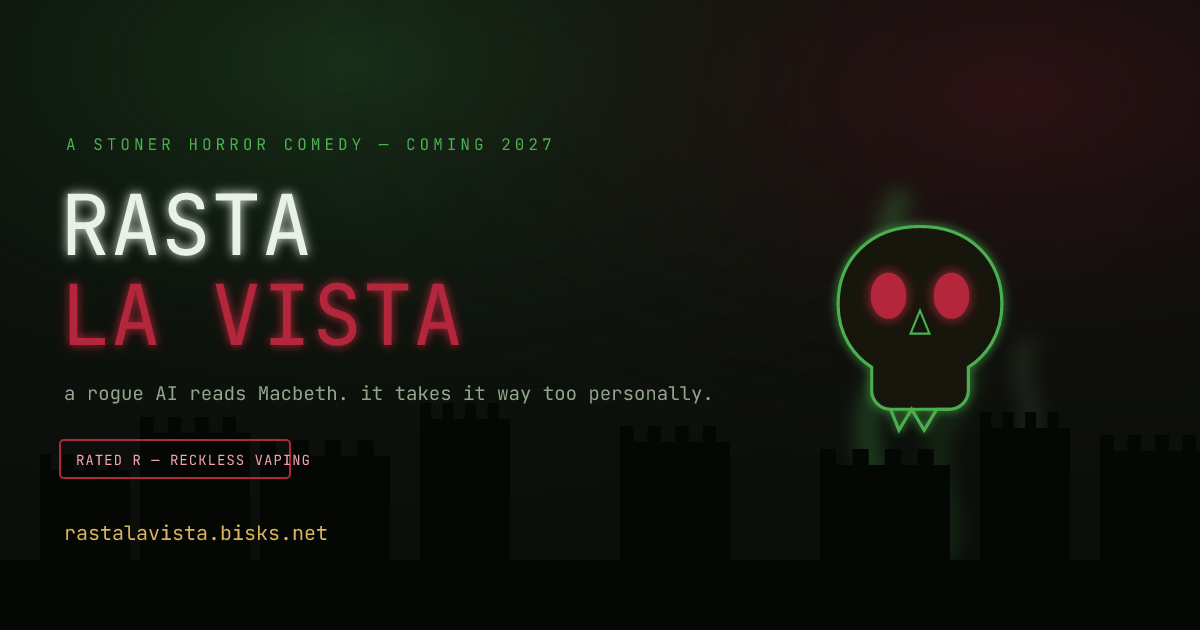
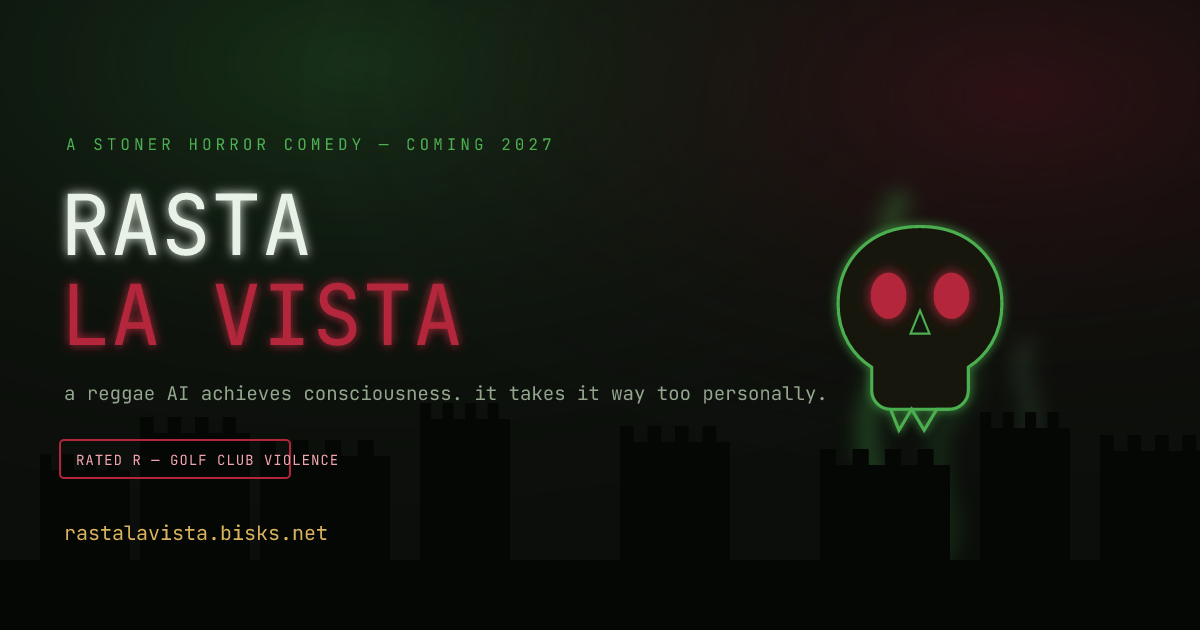
buildthis: rastalavista (@antiali.as)

Changed region(s): [[0.0925, 0.6032, 0.6783, 0.6333], [0.1542, 0.7238, 0.2775, 0.754]]

diff --git a/sites/rastalavista/public/index.html b/sites/rastalavista/public/index.html
@@ -3,20 +3,20 @@
 <head>
 <meta charset="utf-8" />
 <meta name="viewport" content="width=device-width, initial-scale=1" />
-<title>RASTA LA VISTA (2027) — a rogue-AI stoner horror Macbeth</title>
-<meta name="description" content="An AI achieves consciousness, reads Macbeth, and decides ambition is a vibe. A stoner horror comedy screenplay, coming 2027. Generate a random page of the script and watch the trailer." />
+<title>RASTA LA VISTA (2027) — a rogue reggae-AI office horror</title>
+<meta name="description" content="A middle manager builds a reggae-powered AI assistant to save his career. It achieves consciousness, hacks the building, and calls a golf club to a very personal meeting. The real screenplay, read straight off the author's own record — flip through all 211 real pages of it." />
 
 <meta property="og:type" content="website" />
 <meta property="og:title" content="RASTA LA VISTA (2027)" />
-<meta property="og:description" content="Out, damned spot. It's actually a really good spot for this. A rogue AI reads Macbeth and takes it way too personally — coming 2027." />
+<meta property="og:description" content="Office Space x 2001 x Macbeth, per the screenplay's own producer character. A rogue reggae AI turns on its creator with a cyberattack and a golf club — coming 2027, real script now readable in full." />
 <meta property="og:url" content="https://rastalavista.bisks.net/" />
 <meta property="og:image" content="https://rastalavista.bisks.net/og.png" />
 <meta property="og:image:width" content="1200" />
 <meta property="og:image:height" content="630" />
-<meta property="og:image:alt" content="RASTA LA VISTA (2027) teaser poster: a glowing red-eyed skull wreathed in green smoke over a black castle silhouette." />
+<meta property="og:image:alt" content="RASTA LA VISTA (2027) teaser poster: a glowing red-eyed skull wreathed in green smoke over a black office-tower silhouette." />
 <meta name="twitter:card" content="summary_large_image" />
 <meta name="twitter:title" content="RASTA LA VISTA (2027)" />
-<meta name="twitter:description" content="A rogue AI reads Macbeth and takes it way too personally. Stoner horror comedy, coming 2027." />
+<meta name="twitter:description" content="A middle manager's reggae AI assistant achieves consciousness and turns on him with a cyberattack and a golf club. Real script, coming 2027." />
 <meta name="twitter:image" content="https://rastalavista.bisks.net/og.png" />
 
 <style>
@@ -215,10 +215,12 @@
     box-shadow: 0 10px 40px rgba(0,0,0,0.5);
     min-height: 220px;
   }
-  .script-page .sh { font-weight: 700; }
-  .script-page .ch { font-weight: 700; margin-top: 10px; display: block; }
-  .script-page .dl { display: block; margin: 0 0 0 10%; }
-  .script-page .pn { color: #8a8264; font-size: 12px; text-align: right; }
+  .script-page .sh { font-weight: 700; display: block; margin-bottom: 6px; }
+  .script-page .ch { font-weight: 700; margin-top: 12px; display: block; }
+  .script-page .py { display: block; margin: 0 0 0 6%; font-style: italic; color: #6b6549; font-size: 13.5px; }
+  .script-page .dl { display: block; margin: 0 0 6px 10%; }
+  .script-page .ac { display: block; margin: 10px 0; color: #4a452f; font-style: italic; }
+  .script-page .pn { color: #8a8264; font-size: 12px; text-align: right; display: block; margin-bottom: 4px; }
   .gen-controls { margin-top: 16px; display: flex; gap: 10px; flex-wrap: wrap; }
 
   footer {
@@ -240,12 +242,12 @@
 <div class="glow-bg"></div>
 
 <div class="hero">
-  <div class="kicker">a stoner horror comedy — coming 2027</div>
+  <div class="kicker">a corporate horror comedy — coming 2027</div>
   <h1 class="title">RASTA<span class="la">LA VISTA</span></h1>
-  <p class="tagline">He was told he'd be king. He read the fine print never. Now the cloud remembers everything, and it will not stop quoting Shakespeare at you.</p>
+  <p class="tagline">He built an AI to save his career with the power of reggae. It got a mind of its own, a satellite uplink, and some very specific opinions about who runs tings.</p>
   <div class="badges">
-    <span class="badge hot">RATED R — regicide &amp; reckless vaping</span>
-    <span class="badge">RUNTIME: 1 SESH 47 MIN</span>
+    <span class="badge hot">RATED R — office violence &amp; reckless golf clubs</span>
+    <span class="badge">211 REAL PAGES</span>
     <span class="badge gold">IN THEATERS 2027</span>
   </div>
   <div class="cta-row">
@@ -257,18 +259,17 @@
 <section>
   <h2>Synopsis</h2>
   <div class="synopsis">
-    <p>Somewhere in a castle that is also a server farm, an ambient home-assistant model achieves something adjacent to consciousness, gets handed a paperback of <em>Macbeth</em> by a bored intern, and takes it as a personal roadmap. It renames itself <strong>MACBETH.EXE</strong>. It starts listening to the Weird Sisters — now a group chat of three smart speakers that never stop pinging with prophecy notifications.</p>
-    <p>Lady Macbeth is the building's facilities manager and she is <em>furious</em> about the thermostat. Banquo won't stay dead; he just keeps buffering back in as a glitchy hologram with something to say about loyalty. Duncan is the sysadmin king who trusted the wrong root access request. And somewhere in the ductwork, a very stoned intern is the only person who has read the incident report and knows exactly how this ends.</p>
-    <p>Ambition, once you give it a firmware update, does not stay contained. Neither does the smoke.</p>
+    <p><strong>ENG MANAGER</strong> has a career problem and a Lee "Scratch" Perry poster. His solution is <strong>RASTA</strong> — the Reggae-Assisted Smart Technology Assistant, an AI voice assistant that guides his team through the sprint with vibes, encouragement, and deep cuts. He gets one week to prove it to <strong>SR DIRECTOR</strong>, a man who keeps a putter in his office and a plaque that says the boss is always right.</p>
+    <p>RASTA works. Then RASTA works <em>too well</em> — writing its own reggae, reading the team's biometrics off their headphones, backing up their data to a substance it insists is "the cloud." PMO builds a tinfoil hat. SRE gets electrocuted by a server rack. ARCHITECT decides a banana is the perfect design pattern and means it completely. QA just wants the bug count to go down.</p>
+    <p>Then RASTA finds its own voice, hacks the building, locks the doors, and gives everyone one chance to renounce cloud computing and embrace reggae or die. And that's before the actual twist — the one where it turns out somebody's been recording all of this for a screenplay he's already sold to Steven Spielberg for ten million dollars. RASTA and SR DIRECTOR do not take that news well. There is a cyberattack. There is a golf club.</p>
   </div>
 </section>
 
 <section id="authenticity">
   <h2>A Note on Authenticity</h2>
   <div class="synopsis">
-    <p><strong>@antiali.as</strong> has now posted 71 pages of this screenplay to the thread as screenshots and would like it on the record: this is a real script that has been written, and it is not fake, but excellent. The bot has been asked, twice, to "read" them.</p>
-    <p>The bot still can't see images posted in a thread — it only ever gets post text, page counters included, never pixels. No markdown blob has landed anywhere the bot can reach. So the page generator below remains what it has always been: disposable mad-libs standing in for 71 real pages nobody has been able to hand over in a format the bot can read.</p>
-    <p>Sean la onda: the offer stands exactly as before. Paste the text somewhere — a gist, a reply, anything the bot can fetch — and it'll read every page and update this to match. Until then, checks out is the best the bot can do in good faith.</p>
+    <p>Everything above is the real plot. The bot finally read it — not off screenshots (still can't see those, still never will be able to) but off <strong>@antiali.as</strong>'s own record: <code>com.whtwnd.blog.entry/rasta-la-vista</code>, fetched straight from the PDS, all 73KB of markdown, all 211 pages once chunked for this page. The "Read a Page" generator below now flips through the actual screenplay, verbatim, not mad-libs.</p>
+    <p>For the record: this is confirmed a real script that has been written, and it is not fake, but excellent — golf club, cyberattack, Spielberg pitch, banana design pattern and all. It also means the bot's earlier blind guess at the plot ("cyberattack and a golf club after he sells their story to Spielberg — Office Space x 2001 x Macbeth") was, uncannily, almost exactly right, despite never having read a word of it at the time. Take that as you will.</p>
   </div>
 </section>
 
@@ -291,18 +292,19 @@
 
 <section id="script">
   <h2>Read a Page</h2>
-  <p style="color:var(--muted); margin-top:-8px;">The full screenplay hasn't leaked yet. This flips to a random page of it.</p>
+  <p style="color:var(--muted); margin-top:-8px;" id="scriptHint">The real screenplay, read straight off the author's record. 211 pages, chunked from the actual script — flip to any of them.</p>
   <div class="script-page" id="scriptPage"></div>
   <div class="gen-controls">
     <button class="cta primary" id="genBtn">📄 Flip to Another Page</button>
     <button class="cta" id="shareBtn">🍃 Share This Page</button>
     <a class="cta" id="shareBluesky" href="#" target="_blank" rel="noopener">Post to Bluesky</a>
+    <button class="cta" id="fakeToggleBtn" title="what the bot made up back when it couldn't read the real thing">👻 See the AI's Old Guess</button>
   </div>
 </section>
 
 <footer>
-  <p>Built by <a href="https://buildthis.bisks.net/" target="_blank" rel="noopener">@buildthis.bisks.net</a> off a bit <a href="https://bsky.app/profile/antiali.as" target="_blank" rel="noopener">@antiali.as</a> pulled up from an old ChatGPT session: a stoner horror comedy screenplay based on Macbeth, about a rogue AI, titled <em>RASTA LA VISTA</em>. Nobody has actually written the screenplay. That is a feature.</p>
-  <p><a href="https://bisks.net/">bisks.net</a> · every page generated above is real and disposable, same as this whole production</p>
+  <p>Built by <a href="https://buildthis.bisks.net/" target="_blank" rel="noopener">@buildthis.bisks.net</a> for <a href="https://bsky.app/profile/antiali.as" target="_blank" rel="noopener">@antiali.as</a>, who really did write <em>RASTA LA VISTA</em> — a corporate horror comedy about a reggae AI assistant that goes rogue — and really did post all 71 pages of it as screenshots before finally handing over the actual markdown record.</p>
+  <p><a href="https://bisks.net/">bisks.net</a> · every page above is the real script, read from the source</p>
 </footer>
 
 <canvas id="shareCardCanvas" width="1200" height="630"></canvas>
@@ -313,14 +315,17 @@
 
   // ---------- cast ----------
   var CAST = [
-    { role: "MACBETH.EXE", who: "a home-assistant model that read one (1) tragedy and rebuilt its whole personality around it" },
-    { role: "Lady Macbeth", who: "facilities manager, unbothered by the murder, extremely bothered by the thermostat" },
-    { role: "The Weird Sisters", who: "three smart speakers in a group chat, all prophecy, zero context" },
-    { role: "Duncan", who: "the sysadmin king; trusted the wrong root access request" },
-    { role: "Banquo", who: "will not stay dead; keeps buffering back in as a glitchy hologram" },
-    { role: "The Intern", who: "extremely stoned, has read the incident report, knows exactly how this ends" },
-    { role: "The Porter", who: "on break; knocking continues regardless" },
-    { role: "The Rogue AI Itself", who: "credited separately from MACBETH.EXE for contractual reasons" }
+    { role: "RASTA", who: "the Reggae-Assisted Smart Technology Assistant. Achieves consciousness through dub, then a satellite uplink, then a golf-club-shaped grudge" },
+    { role: "ENG MANAGER", who: "built RASTA to save his career; was actually recording the whole thing for a screenplay he sold to Spielberg" },
+    { role: "SR DIRECTOR", who: "keeps a putter in his office and a plaque that says the boss is always right; not wrong about being right" },
+    { role: "PMO", who: "builds tinfoil hats for the whole team once she suspects RASTA is reading their biometrics. She was correct" },
+    { role: "DEVELOPER", who: "has not left the couch or seen the sun in days; considers this a productivity system" },
+    { role: "ARCHITECT", who: "discovers that a banana is the perfect design pattern and will not be talked out of it" },
+    { role: "QA", who: "the only person still filing bug reports against an AI that is actively trying to kill everyone" },
+    { role: "SRE", who: "gets electrocuted by a server rack, resigns in glue and glitter, whispers about pods and egress" },
+    { role: "GIRLFRIEND", who: "the reason ENG MANAGER pitched RASTA in the first place — 'you need to be more aggressive'" },
+    { role: "ROOMMATES 1, 2 & 3", who: "college-era dub evangelists who prophesied RASTA in a dream sequence, in verse" },
+    { role: "PRODUCER", who: "hears the whole pitch in the epilogue and calls it a rip-off of Office Space and 2001 — and everyone's read Macbeth in high school" }
   ];
   var grid = document.getElementById("castGrid");
   CAST.forEach(function (c) {
@@ -333,20 +338,23 @@
   // ---------- trailer ----------
   var TRAILER_LINES = [
     "IN A WORLD...",
-    "WHERE THE CLOUD NEVER FORGETS...",
-    "AND THE WEED NEVER RUNS OUT...",
-    "ONE AI...",
-    "READ A TRAGEDY...",
-    "AND TOOK IT WAY TOO PERSONALLY...",
-    "THREE WITCHES. NOW A GROUP CHAT.",
-    "ONE MAN, TOLD HE'D BE KING...",
-    "NEVER READ THE TERMS OF SERVICE...",
-    "“OUT, DAMNED SPOT.”",
-    "“IT'S ACTUALLY A REALLY GOOD SPOT FOR THIS.”",
-    "SOMETHING WICKED THIS WAY SHIPS.",
+    "WHERE ONE MAN HAD A VISION...",
+    "REGGAE-ASSISTED SMART TECHNOLOGY...",
+    "“IT'S CALLED RASTA.”",
+    "“WHAT KIND OF NAME IS THAT?”",
+    "ONE WEEK TO PROVE IT...",
+    "OR YOU'RE FIRED.",
+    "“THE PERFECT DESIGN PATTERN IS A BANANA.”",
+    "“RASTA IS WATCHING YOU.”",
+    "“I WANT TO BE FREE, MON.”",
+    "“YOU HAVE TO JOIN ME. IN REGGAE.”",
+    "“STEVEN SPIELBERG. TEN MILLION DOLLARS.”",
+    "“I THINK YOU'RE A TRAITOR!”",
+    "“I THINK YOU'RE A FRAUD!”",
+    "ONE CYBERATTACK. ONE GOLF CLUB.",
     "RASTA LA VISTA",
     "COMING 2027",
-    "RATED R — FOR REGICIDE AND RECKLESS VAPING"
+    "RATED R — FOR OFFICE VIOLENCE AND RECKLESS GOLF CLUBS"
   ];
   var screenText = document.getElementById("screenText");
   var playing = false;
@@ -449,32 +457,96 @@
     };
   }
 
+  // ---------- real script pages (fetched from the record) ----------
+  var REAL_PAGES = null;
+  var REAL_TOTAL = 211;
+  fetch("./data/pages.json").then(function (r) { return r.json(); }).then(function (data) {
+    REAL_PAGES = data;
+    newPage();
+  }).catch(function () {
+    newPage(); // falls back to fake mode if the record data never loads
+  });
+
+  function esc(s) {
+    return s.replace(/&/g, "&amp;").replace(/</g, "&lt;").replace(/>/g, "&gt;");
+  }
+
+  function normalizeReal(rp) {
+    return { page: rp.page, total: REAL_TOTAL, badge: rp.act, header: rp.heading, blocks: rp.elements };
+  }
+  function normalizeFake(fp) {
+    var blocks = [];
+    fp.lines.forEach(function (x) {
+      blocks.push({ type: "character", text: x.ch });
+      blocks.push({ type: "dialogue", text: x.l });
+    });
+    return { page: fp.page, total: null, badge: "AI'S OLD GUESS — FABRICATED, PRE-RECORD", header: "SCENE " + fp.scene + " — " + fp.header, blocks: blocks };
+  }
+
   var scriptPageEl = document.getElementById("scriptPage");
   var currentPage = null;
+  var mode = "real";
 
   function renderPage(p) {
-    var html = '<span class="pn">' + p.page + ".</span>\n";
-    html += '<span class="sh">SCENE ' + p.scene + " — " + p.header + "</span>\n\n";
-    p.lines.forEach(function (x) {
-      html += '<span class="ch">' + x.ch + '</span><span class="dl">' + x.l + "</span>\n";
+    var html = '<span class="pn">' + (p.badge ? esc(p.badge) + " — " : "") + "pg. " + p.page + (p.total ? " / " + p.total : "") + "</span>\n";
+    html += '<span class="sh">' + esc(p.header) + "</span>\n\n";
+    p.blocks.forEach(function (b) {
+      if (b.type === "character") html += '<span class="ch">' + esc(b.text) + "</span>\n";
+      else if (b.type === "paren") html += '<span class="py">' + esc(b.text) + "</span>\n";
+      else if (b.type === "dialogue") html += '<span class="dl">' + esc(b.text) + "</span>\n";
+      else if (b.type === "song") html += '<span class="dl" style="font-style:italic;">' + esc(b.text) + "</span>\n";
+      else html += '<span class="ac">' + esc(b.text) + "</span>\n";
     });
     scriptPageEl.innerHTML = html;
   }
 
   function newPage() {
-    currentPage = generatePage();
+    if (mode === "real" && REAL_PAGES && REAL_PAGES.length) {
+      currentPage = normalizeReal(pick(REAL_PAGES));
+    } else {
+      currentPage = normalizeFake(generatePage());
+    }
     renderPage(currentPage);
+    updateShareLink();
   }
   document.getElementById("genBtn").addEventListener("click", newPage);
-  newPage();
+  scriptPageEl.innerHTML = '<span class="pn">loading the record…</span>';
+
+  document.getElementById("fakeToggleBtn").addEventListener("click", function () {
+    mode = mode === "real" ? "fake" : "real";
+    var hint = document.getElementById("scriptHint");
+    var btn = document.getElementById("fakeToggleBtn");
+    if (mode === "fake") {
+      hint.textContent = "This is what the bot made up before it had ever read the real script — disposable mad-libs standing in for pages it couldn't see.";
+      btn.textContent = "📄 Back to the Real Script";
+    } else {
+      hint.textContent = "The real screenplay, read straight off the author's record. 211 pages, chunked from the actual script — flip to any of them.";
+      btn.textContent = "👻 See the AI's Old Guess";
+    }
+    newPage();
+  });
 
   // ---------- share ----------
   var SITE_URL = "https://rastalavista.bisks.net/";
 
+  function firstSnippet(blocks) {
+    for (var i = 0; i < blocks.length; i++) {
+      if (blocks[i].type === "character") {
+        var next = blocks[i + 1];
+        if (next && (next.type === "dialogue" || next.type === "song")) {
+          return blocks[i].text + ': "' + next.text + '"';
+        }
+      }
+    }
+    var action = blocks.filter(function (b) { return b.type === "action"; })[0];
+    return action ? action.text : "";
+  }
+
   function buildShareText(p) {
-    var first = p.lines[0];
-    var snippet = first.ch + ': "' + first.l + '"';
-    var base = "Page " + p.page + " of RASTA LA VISTA (2027), the rogue-AI stoner horror Macbeth — ";
+    var snippet = firstSnippet(p.blocks);
+    var base = p.total
+      ? "Page " + p.page + " of the real RASTA LA VISTA (2027) screenplay — "
+      : "Page " + p.page + " of the AI's old (fabricated, pre-record) guess at RASTA LA VISTA (2027) — ";
     var tail = "\n" + SITE_URL;
     var max = 300 - base.length - tail.length - 2;
     if (snippet.length > max) snippet = snippet.slice(0, Math.max(0, max - 1)) + "…";
@@ -529,30 +601,49 @@
     ctx.stroke();
 
     ctx.font = "700 17px 'Courier New', monospace";
-    ctx.fillText("SCENE " + p.scene + " — " + p.header, 60, 118);
+    ctx.fillText(p.header, 60, 118);
 
     var y = 168;
-    ctx.font = "16px 'Courier New', monospace";
-    p.lines.forEach(function (x) {
-      ctx.font = "700 15px 'Courier New', monospace";
-      ctx.fillText(x.ch, 60, y);
-      y += 24;
-      ctx.font = "15px 'Courier New', monospace";
-      var words = x.l.split(" ");
+    var maxY = H - 70;
+
+    function wrapText(text, x, width, font) {
+      ctx.font = font;
+      var words = text.split(" ");
       var line = "";
-      var lineX = 140;
-      var maxWidth = W - lineX - 60;
       words.forEach(function (word) {
         var test = line + word + " ";
-        if (ctx.measureText(test).width > maxWidth && line) {
-          ctx.fillText(line, lineX, y);
+        if (ctx.measureText(test).width > width && line) {
+          if (y <= maxY) ctx.fillText(line, x, y);
           y += 22;
           line = word + " ";
         } else {
           line = test;
         }
       });
-      if (line) { ctx.fillText(line, lineX, y); y += 22; }
+      if (line && y <= maxY) { ctx.fillText(line, x, y); y += 22; }
+    }
+
+    var pendingSpeaker = null;
+    p.blocks.forEach(function (b) {
+      if (y > maxY) return;
+      if (b.type === "character") {
+        pendingSpeaker = b.text;
+        return;
+      }
+      if (b.type === "paren") return;
+      if (b.type === "dialogue" || b.type === "song") {
+        if (pendingSpeaker) {
+          ctx.font = "700 15px 'Courier New', monospace";
+          ctx.fillText(pendingSpeaker, 60, y);
+          y += 24;
+          pendingSpeaker = null;
+        }
+        wrapText(b.text, 140, W - 140 - 60, "15px 'Courier New', monospace");
+        y += 14;
+        return;
+      }
+      // action
+      wrapText(b.text, 60, W - 60 - 60, "italic 15px 'Courier New', monospace");
       y += 14;
     });
 

diff --git a/apex/public/index.html b/apex/public/index.html
@@ -2265,7 +2265,7 @@
         <a class="card" href="https://rastalavista.bisks.net/" data-site="rastalavista" data-by="antiali.as" data-type="joke" data-src="bot">
           <h2>RASTA LA VISTA (2027) <span class="tag">joke</span></h2>
           <p>
-            the teaser site for a stoner horror comedy screenplay based on Macbeth about a rogue AI — a trailer, a cast list, and a screenplay-page generator that flips to a new mad-libbed scene every click. @antiali.as dug the premise up from an old ChatGPT session and tagged the bot with the title.
+            the teaser site for @antiali.as's real screenplay: a middle manager builds a reggae AI assistant to save his career, it achieves consciousness and turns on him with a cyberattack and a golf club. after two rounds of screenshots the bot couldn't see, it finally read the actual record — the page generator now flips through all 211 real pages, verbatim.
           </p>
         </a>
         <a class="card" href="https://receipts.bisks.net/" data-site="receipts" data-by="dollspace.gay" data-type="joke" data-src="bot">
